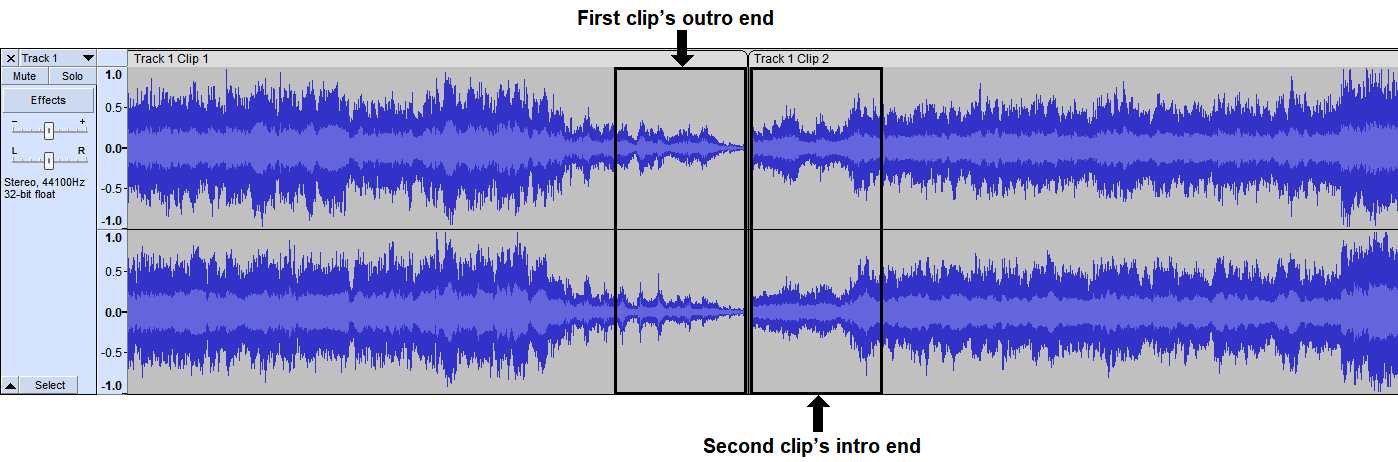
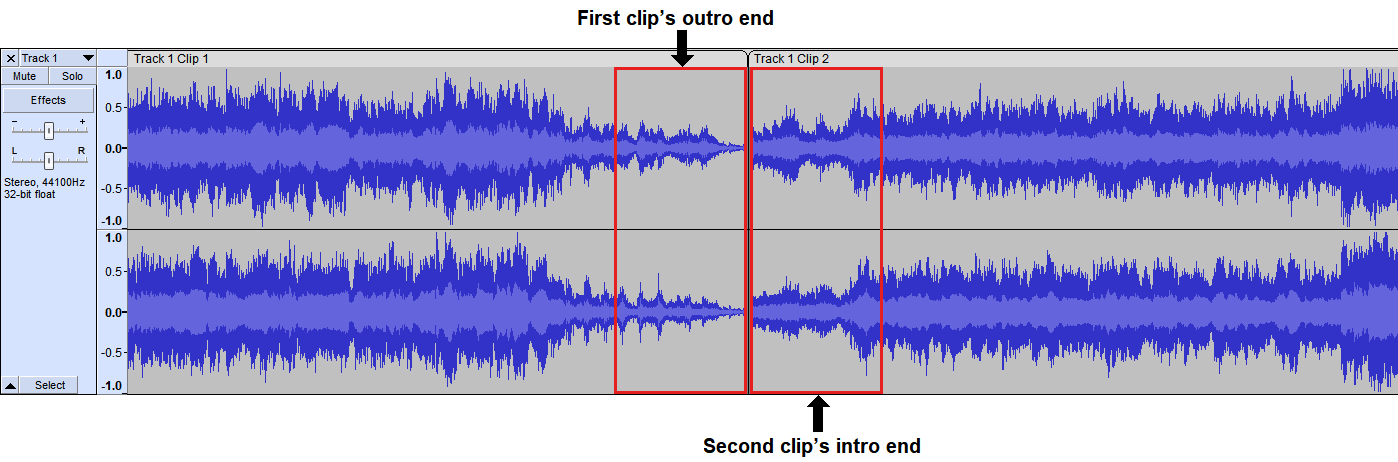
Fixed note boxes and changed updated screenshots

Changed region(s): [[0.4306, 0.1212, 0.6459, 0.8788], [0.6152, 0.8182, 0.6459, 0.8485]]

diff --git a/docs/managing-a-project/export-a-project.md b/docs/managing-a-project/export-a-project.md
@@ -4,11 +4,11 @@ Exporting a project allows you to save your project as a specific audio file for
 
 !!! note 
 
-        All tracks in an exported project get <a href="/learning-audacity/editing-a-project/mix-tracks/">mixed</a> together as a single track. Before exporting the project, ensure that you’re finished editing and satisfied with the end result.
+    All tracks in an exported project get <a href="/learning-audacity/editing-a-project/mix-tracks/">mixed</a> together as a single track. Before exporting the project, ensure that you’re finished editing and satisfied with the end result.
 
 !!! tip
 
-        If the tracks have varying volume levels, you should <a href="/learning-audacity/applying-common-audio-effects/change-overall-volume-level/#normalize-audio">normalize</a> them before exporting the project to ensure that the overall volume is more consistent.
+     If the tracks have varying volume levels, you should <a href="/learning-audacity/applying-common-audio-effects/change-overall-volume-level/#normalize-audio">normalize</a> them before exporting the project to ensure that the overall volume is more consistent.
 
 <br/>
 
@@ -32,17 +32,17 @@ To export an audio selection:
 
     !!! tip 
 
-            If having a small file size is important, select a compressed file format, such as .mp3 or .aac. Compressed file formats produce a smaller file size and still retain good audio quality. If you’re not limited by file size, select an uncompressed file format, such as .wav or .aiff. Uncompressed file formats produce a larger file size but also result in the best audio quality.
+        If having a small file size is important, select a compressed file format, such as .mp3 or .aac. Compressed file formats produce a smaller file size and still retain good audio quality. If you’re not limited by file size, select an uncompressed file format, such as .wav or .aiff. Uncompressed file formats produce a larger file size but also result in the best audio quality.
 
     !!! note
 
-            To export a project as an .m4a, .aac, or .wma file, you must first install the <a href="https://manual.audacityteam.org/man/faq_installing_the_ffmpeg_import_export_library.html" target="_blank">FFMPEG library</a> in Audacity.
+        To export a project as an .m4a, .aac, or .wma file, you must first install the <a href="https://manual.audacityteam.org/man/faq_installing_the_ffmpeg_import_export_library.html" target="_blank">FFMPEG library</a> in Audacity.
 
 6. Under **Format Options**, select your preferred format settings.
 
     !!! note
 
-            The default format settings work well for most projects.
+        The default format settings work well for most projects.
 
 7. Click **Save**.
 

diff --git a/docs/editing-a-project/split-and-join-clips.md b/docs/editing-a-project/split-and-join-clips.md
@@ -37,7 +37,7 @@ To split clips:
 
         !!! tip 
 
-                You can <a href="/learning-audacity/managing-a-project/manage-tracks/#name-a-clip-inside-a-track">name clips</a> to identify specific sections of audio and better organize your project.
+            You can <a href="/learning-audacity/managing-a-project/manage-tracks/#name-a-clip-inside-a-track">name clips</a> to identify specific sections of audio and better organize your project.
 
 <br/>
 
@@ -55,7 +55,7 @@ To join clips:
 
     !!! note
 
-            Joining clips without a waveform between them will replace the gap with a flat waveform (silence). To join clips without inserting a flat waveform, <a href="/learning-audacity/editing-a-project/move-and-align-audio/#move-a-clip">move the clips</a> next to each other until they snap together.
+        Joining clips without a waveform between them will replace the gap with a flat waveform (silence). To join clips without inserting a flat waveform, <a href="/learning-audacity/editing-a-project/move-and-align-audio/#move-a-clip">move the clips</a> next to each other until they snap together.
 
 3. Go to **Edit** \> **Audio Clips** \> **Join**.
 

diff --git a/docs/managing-a-project/get-started-with-a-project.md b/docs/managing-a-project/get-started-with-a-project.md
@@ -58,10 +58,10 @@ To import an audio file:
 
     !!! tip
 
-            Another way to import an audio file is to drag it into the project window.
+        Another way to import an audio file is to drag it into the project window.
     
     !!! note  
      
-            If the imported audio’s waveform isn’t centered at the 0.0 line on the Vertical scale, you should <a href="/learning-audacity/applying-common-audio-effects/change-overall-volume-level#normalize-audio">normalize the track</a> to remove the DC offset before editing and applying effects. DC offset can result in clipping, distortion, and popping sounds.  
+        If the imported audio’s waveform isn’t centered at the 0.0 line on the Vertical scale, you should <a href="/learning-audacity/applying-common-audio-effects/change-overall-volume-level#normalize-audio">normalize the track</a> to remove the DC offset before editing and applying effects. DC offset can result in clipping, distortion, and popping sounds.  
 
-            <img src="/learning-audacity/assets/images/Vertical Scale - DC offset.png" />
+        <img src="/learning-audacity/assets/images/Vertical Scale - DC offset.png" />

diff --git a/docs/playing-and-recording-a-project/monitor-audio.md b/docs/playing-and-recording-a-project/monitor-audio.md
@@ -76,7 +76,7 @@ To monitor playback level:
     <img src="/learning-audacity/assets/images/Transport Toolbar - Play.png" />
 
 4. Watch the Playback meter and keep track of the output signal’s
-current peak level, recent peak level, and maximum peak level.
+current peak level (green bar), recent peak level (orange line), and maximum peak level (blue line).
 
     <img src="/learning-audacity/assets/images/Playback Meter Toolbar - Playback Level - Peak Levels.png" style="width:3.03087in;height:1.9685in" />
 

diff --git a/docs/playing-and-recording-a-project/control-audio-playback.md b/docs/playing-and-recording-a-project/control-audio-playback.md
@@ -33,7 +33,7 @@ To play at a specific playback speed:
 
 1. On the Play-at-speed toolbar, drag the **Play-at-speed slider**:
 
-    <img src="/learning-audacity/assets/images/Play-at-Speed Slider.png" />
+    <img src="/learning-audacity/assets/images/Play-at-Speed Toolbar.png" />
 
       - To increase the playback speed, drag the slider to the right.
 

diff --git a/docs/audacity-project-window.md b/docs/audacity-project-window.md
@@ -193,7 +193,7 @@ The **Transport toolbar** contains buttons for playing and recording audio.
 
 ## Tools toolbar
 
-<img src="../assets/images/Tools Toolbar - Selection Tool.png" />
+<img src="../assets/images/Tools Toolbar.png" />
 
 The **Tools toolbar** contains buttons for selecting audio, smoothening volume levels, and redrawing waveforms.
 
